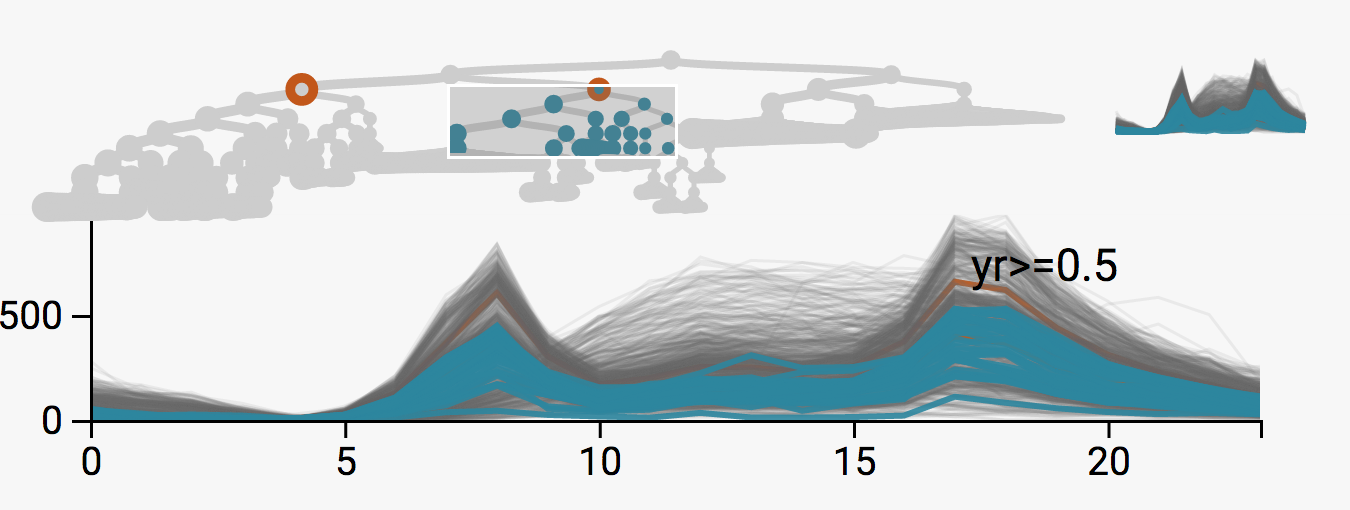
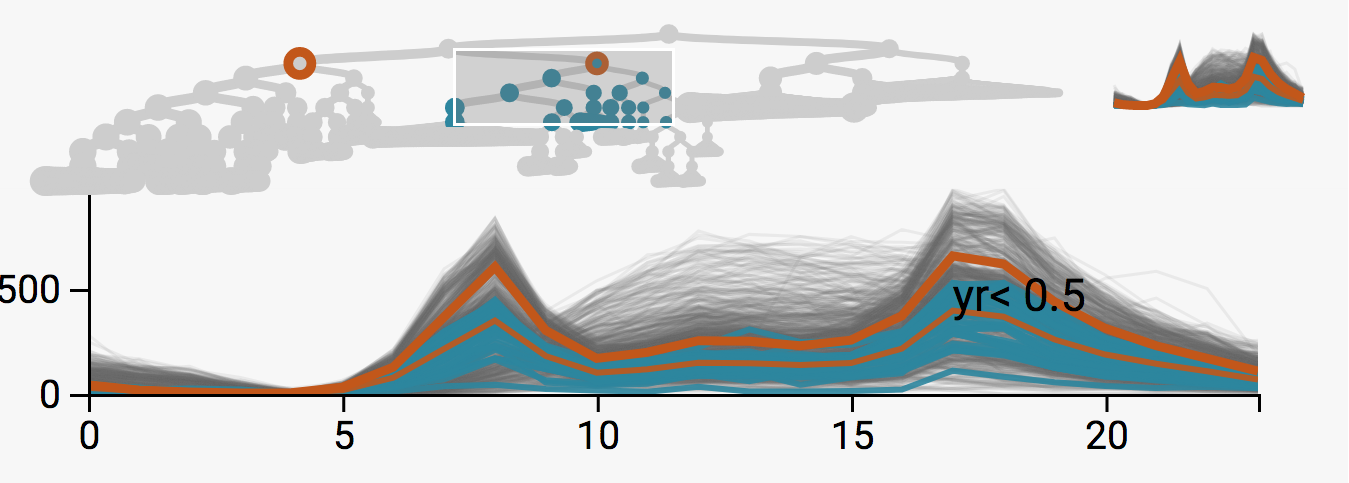
Add links + update figures
(red search lines now appear above blue select lines)

diff --git a/treelapse.tex b/treelapse.tex
@@ -99,10 +99,10 @@ our techniques.
 We have implemented our visualizations in D3, but encapsulated in an R package,
 called treelapse, to facilitate rapid turnover from data preparation and
 modeling to interactive exploration, and vice versa. Our code is open-source,
-and available at \url{https://github.com/krisrs1128/treelapse}. We hope this
-package encourages data analysts to work at the border between data modeling and
-visualization, and more generally empowers a wider audience to apply less widely
-known, but powerful, visualization ideas.
+and is linked in Section \ref{sec:supp_links} of the supplementary materials. We
+hope this package encourages data analysts to work at the border between data
+modeling and visualization, and more generally empowers a wider audience to
+apply less widely known, but powerful, visualization ideas.
 
 In summary, our key contributions are,
 \begin{itemize}
@@ -645,16 +645,16 @@ associated with preterm births.
 \subsection{Dynamics in Housing Prices}\label{zillow-study}
 
 We next consider an application unrelated to the microbiome, but with relatively
-clear hierarchical structure. Our data are downloaded from
-Zillow\footnote{\url{http://www.zillow.com/research/data/}}, and give the Zillow
-Home Value Indexes at the neighborhood level, across the country, computed
-monthly between 1996 and 2016. In our display, we have taken the base 10 log of
-these indexes. As our hierarchical structure, we use each neighborhood's
-assignment to state, regional, county, and city levels. We represent each of
-these coarser spatial categories using the average of all neighborhoods
-contained in them. We have filtered down to the 890 neighborhoods in California;
-rendering more neighborhoods while keeping all 246 timepoints causes the
-interface to lag\footnote{See below for potential optimizations, however.}.
+clear hierarchical structure. Our data are downloaded from Zillow and give the
+Zillow Home Value Indexes at the neighborhood level, across the country,
+computed monthly between 1996 and 2016. A link to the data source is provided in
+Section \ref{sec:supp_links} of the supplementary materials. In our display, we
+have taken the base 10 log of these indexes. As our hierarchical structure, we
+use each neighborhood's assignment to state, regional, county, and city levels.
+We represent each of these coarser spatial categories using the average of all
+neighborhoods contained in them. We have filtered down to the 890 neighborhoods
+in California; rendering more neighborhoods while keeping all 246 timepoints
+causes a severe lag in the interface.
 
 Our basic analysis revolves around geographic and temporal variation in home
 prices. We are especially interested in the effect of the 2008 recession and any
@@ -792,17 +792,17 @@ substantial decision-making.
 \subsection{Sources of Variation in Bikesharing
 Demand}\label{bikesharing-study}
 
-Our next example is a study in bikesharing demand, included as an
-example of analyzing collections of time series when there is no obvious
-hierarchical structure a priori. The data are available at the UCI
-Repository\footnote{\url{https://archive.ics.uci.edu/ml/datasets/Bike+Sharing+Dataset}}
-and were originally collected by a Washington D.C.-based bikesharing
-system for use in a Kaggle prediction competition. The data are hourly
-measurements of bike demand, aggregated across all bikesharing stations,
-over two years, along with supplemental weather data. In the
-competition, participants were asked to predict the hourly demand on a
-held-out test set. Here, we adopt a descriptive view instead, attempting
-to characterize factors associated with variation in bikesharing demand.
+Our next example is a study in bikesharing demand, included as an example of
+analyzing collections of time series when there is no obvious hierarchical
+structure a priori. The data are available at the UCI Repository and were
+originally collected by a Washington D.C.-based bikesharing system for use in a
+Kaggle prediction competition. A link is provided in Section
+\ref{sec:supp_links} of the supplementary materials. The data are hourly
+measurements of bike demand, aggregated across all bikesharing stations, over
+two years, along with supplemental weather data. In the competition,
+participants were asked to predict the hourly demand on a held-out test set.
+Here, we adopt a descriptive view instead, attempting to characterize factors
+associated with variation in bikesharing demand.
 
 Like the Zillow home prices application, we study this problem as one of
 describing a large collection of related time series. Here, we consider
@@ -853,43 +853,38 @@ second year.
 \end{figure}
 
 \begin{figure}
-
-{\centering \includegraphics[width=350px]{figure/weekend}}
-
-\caption{By adjusting the two brushes in Figure \ref{fig:working}, we see that
-  unlike weekday demand, weekend demand is unimodal. The few weekday series with
-  unimodal series seem to be associated with holidays. This is the case for New
-  Years' Eve, which is currently hovered over in the tree. The ease of
-  transitioning from Figure \ref{fig:working} to this display indicates the
-  importances of brushing in interaction.}\label{fig:weekend}
+  \centering
+  \includegraphics[width=350px]{figure/weekend}
+    \caption{By adjusting the two brushes in Figure \ref{fig:working}, we see that
+      unlike weekday demand, weekend demand is unimodal. The few weekday series with
+      unimodal series seem to be associated with holidays. This is the case for New
+      Years' Eve, which is currently hovered over in the tree. The ease of
+      transitioning from Figure \ref{fig:working} to this display indicates the
+      importances of brushing in interaction.}\label{fig:weekend}
 \end{figure}
 
 \begin{figure}
-{\centering \includegraphics[width=350px]{figure/weekday_2011}}
-
-\caption{Weekday demand appears larger in 2012 than 2011 -- compare with Figure 
-  \ref{fig:weekday2012}. Here, a brushes are introduced over the tree to see the
-  series associated with a particular split point. The red nodes are the results
-  of searches over the two nodes that are children of this split point. The fact
-  that the \texttt{yr>=0.5} selected line is larger than the \texttt{yr<0.5}
-  line means that demand was larger in 2012. In combination with searching and
-  treeboxes, it is possible to interpret more subtle split points in the decision
-  tree.}
-\label{fig:weekday2011}
+  \centering
+  \includegraphics[width=350px]{figure/weekday_2011}
+    \caption{Weekday demand appears larger in 2012 than 2011 -- compare with Figure 
+      \ref{fig:weekday2012}. Here, a brushes are introduced over the tree to see the
+      series associated with a particular split point. The red nodes are the results
+      of searches over the two nodes that are children of this split point. The fact
+      that the \texttt{yr>=0.5} selected line is larger than the \texttt{yr<0.5}
+      line means that demand was larger in 2012. In combination with searching and
+      treeboxes, it is possible to interpret more subtle split points in the decision
+      tree.} \label{fig:weekday2011}
 \end{figure}
 
 \begin{figure}
-
-{\centering \includegraphics[width=350px]{figure/weekday_2012}
-
-}
-
-\caption{Weekday demand increased in 2012 -- compare with 
-  Figure \ref{fig:weekday2011}. The search terms are the same as in that figure,
-  but the subtree associated with the 2012 split point is highlighted, using the
-  union of two boxes. Note that unlike timebox trees, which highlighted series
-  lying through the intersection of brushes, treeboxes highlight series within the
-  union of brushes.}\label{fig:weekday2012}
+  \centering
+  \includegraphics[width=350px]{figure/weekday_2012}
+  \caption{Weekday demand increased in 2012 -- compare with 
+    Figure \ref{fig:weekday2011}. The search terms are the same as in that figure,
+    but the subtree associated with the 2012 split point is highlighted, using the
+    union of two boxes. Note that unlike timebox trees, which highlighted series
+    lying through the intersection of brushes, treeboxes highlight series within the
+    union of brushes.}\label{fig:weekday2012}
 \end{figure}
 
 In contrast to these general questions about daily demand, we could ask
@@ -1097,5 +1092,18 @@ commuter bikesharing systems.
 
 \bibliographystyle{plainnat}
 \bibliography{bibliography}
+
+\section{Supplemental Materials}
+
+\subsection{Links}
+\label{sec:supp_links}
+
+\begin{itemize}
+\item treelapse home page: \url{https://krisrs1128.github.io/treelapse/}
+\item treelapse development page: \url{https://github.com/krisrs1128/treelapse}
+\item Home prices data: \url{http://www.zillow.com/research/data/}
+\item Bikesharing data: \url{https://archive.ics.uci.edu/ml/datasets/Bike+Sharing+Dataset}
+\end{itemize}
+
 
 \end{document}
